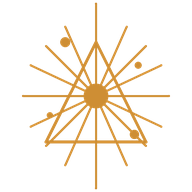
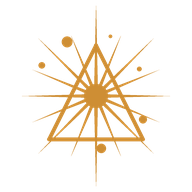
Naujas zenklo piesinys: smailejantys spinduliai, storesnis trikampis
Zenklas perpiestas pagal vizitineje naudojama varianta ir suvienodintas
visose vietose. Dideliems dydziams (herojaus fonas, nuotrauku vietos)
naudojamas detalus #mark, o 30-34 px antrastes ir porastes logotipui
pridetas supaprastintas #mark-sm: smailejantys spinduliai tokiame dydyje
issitrina.

Perpiesti ir parasui skirti PNG failai bei favicon.

diff --git a/index.html b/index.html
@@ -34,24 +34,46 @@
 
 <!-- ženklo šablonas -->
 <svg width="0" height="0" style="position:absolute" aria-hidden="true">
-  <symbol id="mark" viewBox="0 0 100 100">
+<symbol id="mark" viewBox="0 0 100 100">
     <g class="mark">
-      <g class="ray">
-        <line x1="50" y1="2"  x2="50" y2="98"/>
-        <line x1="12" y1="50" x2="88" y2="50"/>
-        <line x1="24" y1="24" x2="76" y2="76"/>
-        <line x1="76" y1="24" x2="24" y2="76"/>
-        <line x1="34" y1="14" x2="66" y2="86"/>
-        <line x1="66" y1="14" x2="34" y2="86"/>
-        <line x1="16" y1="34" x2="84" y2="66"/>
-        <line x1="84" y1="34" x2="16" y2="66"/>
+      <g class="beam">
+        <polygon points="50.95,45.80 50.00,0.00 49.05,45.80"/>
+        <polygon points="49.05,54.20 50.00,100.00 50.95,54.20"/>
+        <polygon points="54.20,50.95 91.00,50.00 54.20,49.05"/>
+        <polygon points="45.80,49.05 9.00,50.00 45.80,50.95"/>
+        <polygon points="53.64,47.70 81.82,18.18 52.30,46.36"/>
+        <polygon points="52.30,53.64 81.82,81.82 53.64,52.30"/>
+        <polygon points="46.36,52.30 18.18,81.82 47.70,53.64"/>
+        <polygon points="47.70,46.36 18.18,18.18 46.36,47.70"/>
+        <polygon points="52.48,46.48 63.78,16.74 50.73,45.76"/>
+        <polygon points="50.73,54.24 63.78,83.26 52.48,53.52"/>
+        <polygon points="47.52,53.52 36.22,83.26 49.27,54.24"/>
+        <polygon points="49.27,45.76 36.22,16.74 47.52,46.48"/>
+        <polygon points="54.24,49.27 85.11,35.46 53.52,47.52"/>
+        <polygon points="53.52,52.48 85.11,64.54 54.24,50.73"/>
+        <polygon points="45.76,50.73 14.89,64.54 46.48,52.48"/>
+        <polygon points="46.48,47.52 14.89,35.46 45.76,49.27"/>
       </g>
       <path class="tri" d="M50 22 L76 74 L24 74 Z"/>
+      <circle class="dot" cx="50" cy="50" r="6.6"/>
+      <circle class="dot" cx="34" cy="20" r="3.0"/>
+      <circle class="dot" cx="58" cy="17" r="1.0"/>
+      <circle class="dot" cx="20" cy="33" r="1.8"/>
+      <circle class="dot" cx="74" cy="35" r="1.3"/>
+      <circle class="dot" cx="76" cy="63" r="2.2"/>
+      <circle class="dot" cx="53" cy="79" r="2.6"/>
+    </g>
+  </symbol>
+<symbol id="mark-sm" viewBox="0 0 100 100">
+    <g class="mark-sm">
+      <g class="ray">
+        <line x1="50" y1="8"  x2="50" y2="92"/>
+        <line x1="16" y1="50" x2="84" y2="50"/>
+        <line x1="26" y1="26" x2="74" y2="74"/>
+        <line x1="74" y1="26" x2="26" y2="74"/>
+      </g>
+      <path class="tri" d="M50 26 L74 72 L26 72 Z"/>
       <circle class="dot" cx="50" cy="50" r="6.4"/>
-      <circle class="dot" cx="34" cy="22" r="2.6"/>
-      <circle class="dot" cx="72" cy="34" r="1.8"/>
-      <circle class="dot" cx="70" cy="70" r="2.4"/>
-      <circle class="dot" cx="26" cy="60" r="1.6"/>
     </g>
   </symbol>
 </svg>
@@ -59,7 +81,7 @@
 <header id="nav">
   <div class="in">
     <a class="brand" href="#top">
-      <svg><use href="#mark"/></svg>
+      <svg><use href="#mark-sm"/></svg>
       <b>FeelHarmonic</b>
     </a>
     <nav class="main" aria-label="Pagrindinė navigacija">
@@ -733,7 +755,7 @@
     <div class="cols">
       <div>
         <div class="fbrand">
-          <svg aria-hidden="true"><use href="#mark"/></svg>
+          <svg aria-hidden="true"><use href="#mark-sm"/></svg>
           <div><b>FeelHarmonic</b><span class="tg">Let it come!</span></div>
         </div>
         <p style="max-width:34ch;margin:0 0 18px">Koncertai, performansai, edukacijos, terapiniai renginiai ir šventės nuo A iki Z visoje Lietuvoje.</p>

diff --git a/assets/css/style.css b/assets/css/style.css
@@ -67,9 +67,14 @@ section{padding:84px 0}
 .lede{font-size:19px;max-width:56ch;color:var(--muted)}
 
 /* ---------- ženklas ---------- */
-.mark .ray{stroke:var(--gold);stroke-width:1.1;stroke-linecap:round}
-.mark .tri{fill:none;stroke:var(--gold);stroke-width:1.6}
+.mark .beam polygon{fill:var(--gold)}
+.mark .tri{fill:none;stroke:var(--gold);stroke-width:2.2}
 .mark .dot{fill:var(--gold)}
+
+/* mazas variantas antrastei ir poretei: storesni bruksniai, maziau detaliu */
+.mark-sm .ray{stroke:var(--gold);stroke-width:2.2;stroke-linecap:round}
+.mark-sm .tri{fill:none;stroke:var(--gold);stroke-width:2.6}
+.mark-sm .dot{fill:var(--gold)}
 
 /* ---------- mygtukai ---------- */
 .btn{
